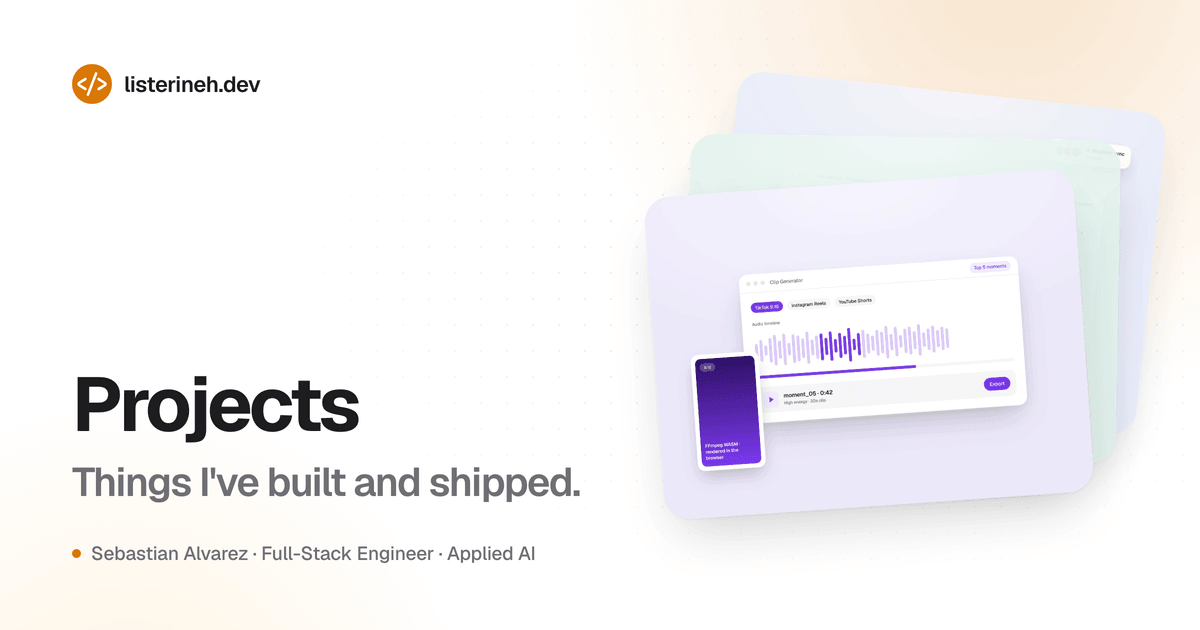
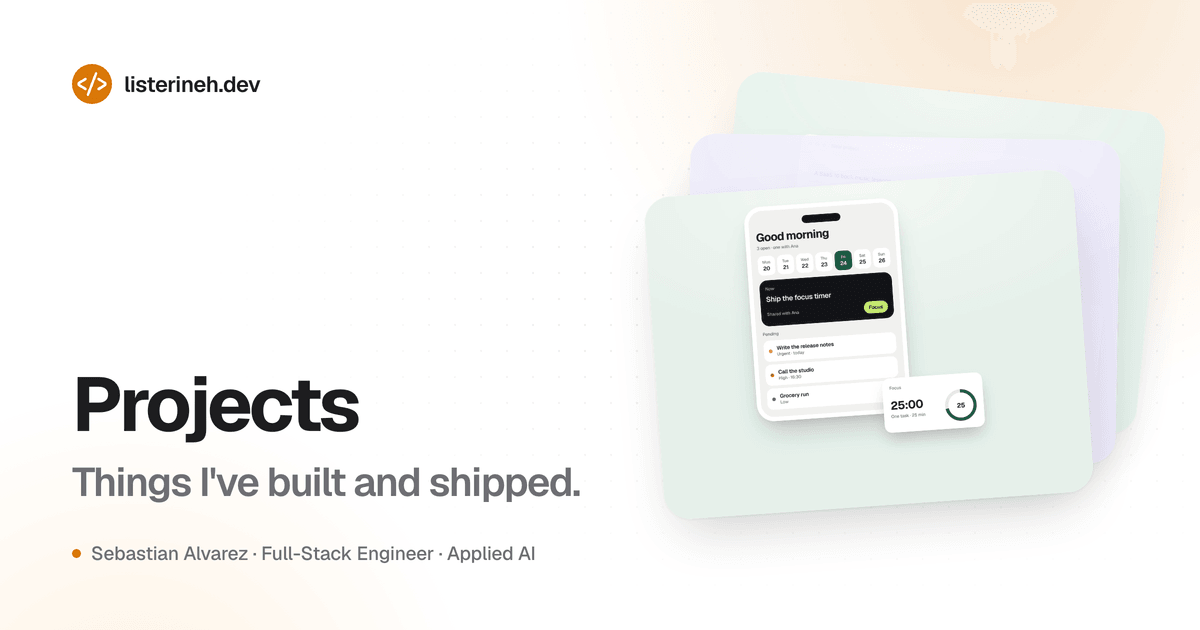
feat(projects): add Kairo to the portfolio
Kairo is the mobile app currently in development. It leads the project list in English and Spanish, with a product shot and a share image, and the home shelf grows to seven so the existing projects stay visible.

Changed region(s): [[0.555, 0.3317, 0.8633, 0.7841]]

diff --git a/scripts/generate-project-images.js b/scripts/generate-project-images.js
@@ -436,9 +436,116 @@ function htmlFlights() {
   );
 }
 
+// ─── 7. Kairo: tasks, calendar, focus ─────────────────────────────────────
+
+function htmlKairo() {
+  const days = [
+    ["Mon", "20"],
+    ["Tue", "21"],
+    ["Wed", "22"],
+    ["Thu", "23"],
+    ["Fri", "24", true],
+    ["Sat", "25"],
+    ["Sun", "26"],
+  ];
+  const week = days
+    .map(
+      ([name, n, on]) =>
+        `<div class="day ${on ? "on" : ""}"><span>${name}</span><b>${n}</b></div>`,
+    )
+    .join("");
+  const task = (title, meta, color) => `
+    <div class="task">
+      <span class="prio" style="background:${color}"></span>
+      <div style="min-width:0">
+        <div class="task-title">${title}</div>
+        <div class="label">${meta}</div>
+      </div>
+    </div>`;
+  return page(
+    { ground: "#E6F0EA", accent: "#1E5B45", accentSoft: "#E3EEE8" },
+    `
+    .scene { display: block; }
+    .phone {
+      position: absolute; left: 276px; top: 46px; width: 430px; background: #fff; border-radius: 48px; padding: 12px;
+      box-shadow: 0 1px 2px rgba(0,0,0,0.04), 0 12px 24px -8px rgba(0,0,0,0.08), 0 40px 80px -24px rgba(0,0,0,0.22);
+    }
+    .screen {
+      border-radius: 38px; background: #F1F2EF; overflow: hidden;
+      padding: 18px 18px 20px; display: flex; flex-direction: column; gap: 14px;
+    }
+    .island { width: 108px; height: 22px; border-radius: 999px; background: #121417; margin: 2px auto 2px; }
+    .hello { font-size: 32px; font-weight: 700; letter-spacing: -0.04em; line-height: 1; }
+    .week { display: grid; grid-template-columns: repeat(7, 1fr); gap: 6px; }
+    .day { height: 54px; border-radius: 14px; background: #fff; display: flex; flex-direction: column; align-items: center; justify-content: center; gap: 1px; }
+    .day span { font-size: 11px; font-weight: 500; color: var(--muted); }
+    .day b { font-size: 15px; font-weight: 600; }
+    .day.on { background: var(--accent); }
+    .day.on span, .day.on b { color: #fff; }
+    .ahora { background: #121417; color: #F3F5F2; border-radius: 22px; padding: 16px; display: grid; gap: 8px; }
+    .ahora .kicker { font-size: 12px; font-weight: 500; color: #A7AFB7; }
+    .ahora .h { font-size: 20px; font-weight: 600; letter-spacing: -0.03em; }
+    .lime { display: inline-flex; align-items: center; height: 34px; padding: 0 14px; border-radius: 999px; background: #C6E96F; color: #121417; font-size: 14px; font-weight: 600; }
+    .task { display: flex; align-items: center; gap: 12px; background: #fff; border-radius: 16px; padding: 12px 14px; }
+    .task-title { font-size: 15px; font-weight: 600; letter-spacing: -0.02em; }
+    .prio { width: 10px; height: 10px; border-radius: 50%; flex-shrink: 0; }
+    .focus { left: 628px; top: 548px; width: 280px; }
+    .ring {
+      width: 88px; height: 88px; border-radius: 50%; flex-shrink: 0;
+      background: conic-gradient(#1E5B45 0 72%, #E6E9E5 72% 100%);
+      display: grid; place-items: center;
+    }
+    .ring i {
+      width: 70px; height: 70px; border-radius: 50%; background: #fff;
+      display: grid; place-items: center; font-size: 18px; font-weight: 700;
+      letter-spacing: -0.03em; font-style: normal;
+    }
+    `,
+    `
+    <div class="phone">
+      <div class="screen">
+        <div class="island"></div>
+        <div>
+          <div class="hello">Good morning</div>
+          <div class="label" style="margin-top:6px;">3 open · one with Ana</div>
+        </div>
+        <div class="week">${week}</div>
+        <div class="ahora">
+          <div class="kicker">Now</div>
+          <div class="h">Ship the focus timer</div>
+          <div class="row" style="justify-content:space-between;margin-top:4px;">
+            <span class="kicker">Shared with Ana</span>
+            <span class="lime">Focus</span>
+          </div>
+        </div>
+        <div>
+          <div class="label" style="margin-bottom:10px;">Pending</div>
+          <div style="display:grid;gap:8px;">
+            ${task("Write the release notes", "Urgent · today", "#C8323F")}
+            ${task("Call the studio", "High · 16:30", "#A9550E")}
+            ${task("Grocery run", "Low", "#646C75")}
+          </div>
+        </div>
+      </div>
+    </div>
+    <div class="float focus">
+      <div class="label">Focus</div>
+      <div class="row" style="justify-content:space-between;align-items:center;margin-top:8px;">
+        <div>
+          <div style="font-size:32px;font-weight:700;letter-spacing:-0.04em;line-height:1;">25:00</div>
+          <div class="label" style="margin-top:6px;">One task · 25 min</div>
+        </div>
+        <div class="ring"><i>25</i></div>
+      </div>
+    </div>
+    `,
+  );
+}
+
 // ─── Runner ────────────────────────────────────────────────────────────────
 
 const ALL_PROJECTS = [
+  { id: "kairo", filename: "kairo.webp", html: htmlKairo() },
   { id: "openstage", filename: "openstage.webp", html: htmlOpenStage() },
   {
     id: "vibe-architect",

diff --git a/src/lib/data/projects.ts b/src/lib/data/projects.ts
@@ -4,6 +4,21 @@ import type { Locale } from '@/i18n/config';
 export const projectsData: Record<Locale, Project[]> = {
   en: [
     {
+      id: 'kairo',
+      slug: 'kairo',
+      title: 'Kairo',
+      description: 'Open-source tasks for iOS and Android. Shared calendars, realtime sync with friends, and focus tools for ADHD.',
+      longDescription: "Kairo is a collaborative task app for iPhone and Android. The name comes from the Greek kairos, the right moment. It keeps tasks, shows the day on a calendar, and stays in sync with friends, in language that does not scold you for falling behind.\n\nA task has a title, a description, a priority, and an optional start and end. Swipe to complete or delete, and the streak only counts the day you actually finished. The calendar shows day, week, and month, including a friend's public tasks or a Busy block when their calendar is private. Focus mode is a 25-minute timer on one task, with a short break after, and a reminder can nudge you to start in 10, 15, 30, or 60 minutes. A calico cat, also named Kairo, reflects how the day is going. The app is in English and Spanish.\n\nI started it in August 2026 because I wanted a task app that matched how my attention works, and that I could change myself. It is Flutter, with Supabase for Postgres, auth, and realtime, and Firebase Cloud Messaging for push. Each feature follows Clean Architecture and BLoC. Tasks work offline: the list opens from a copy on the device, and edits wait in order until the connection comes back. It is MIT-licensed and still in active development.",
+      imageUrl: '/projects/kairo.webp',
+      imageAiHint: 'Kairo phone with a task list and a focus timer',
+      sourceCodeUrl: 'https://github.com/listerineh/kairo-tasks',
+      tags: ['Flutter', 'Dart', 'BLoC', 'Supabase', 'PostgreSQL', 'Firebase'],
+      role: 'Full Stack Developer',
+      status: 'in-progress',
+      relevance: 'A mobile app past the prototype: Flutter, Clean Architecture, realtime collaboration, and offline sync designed around ADHD.',
+      startDate: '2026-08',
+    },
+    {
       id: 'openstage',
       slug: 'openstage',
       title: 'OpenStage',
@@ -101,6 +116,21 @@ export const projectsData: Record<Locale, Project[]> = {
     },
   ],
   es: [
+    {
+      id: 'kairo',
+      slug: 'kairo',
+      title: 'Kairo',
+      description: 'App de tareas open source para iOS y Android. Calendarios compartidos, sincronización en tiempo real con amigos y herramientas de foco pensadas para el TDAH.',
+      longDescription: "Kairo es una app de tareas colaborativa para iPhone y Android. El nombre viene del griego kairos, el momento oportuno. Sirve para llevar tareas, ver el día en un calendario y mantenerse al día con amigos, con un lenguaje que no te regaña por quedarte atrás.\n\nCada tarea tiene título, descripción, prioridad y una hora de inicio y de fin opcionales. Un swipe la completa o la borra, y la racha solo cuenta el día en que de verdad la terminaste. El calendario muestra el día, la semana y el mes, incluidas las tareas públicas de un amigo o un bloque de Ocupado si su calendario es privado. El modo foco es un temporizador de 25 minutos sobre una sola tarea, con un descanso corto después, y un recordatorio puede avisarte para empezar en 10, 15, 30 o 60 minutos. Un gato tricolor, que también se llama Kairo, refleja cómo va el día. La app está en inglés y en español.\n\nLa empecé en agosto de 2026 porque quería una app de tareas que coincidiera con cómo funciona mi atención, y que yo mismo pudiera cambiar. Está hecha en Flutter, con Supabase para Postgres, autenticación y tiempo real, y Firebase Cloud Messaging para las notificaciones. Cada funcionalidad sigue Clean Architecture y BLoC. Las tareas funcionan sin conexión: la lista se abre desde una copia en el dispositivo y los cambios esperan en orden hasta que vuelve la red. Tiene licencia MIT y sigue en desarrollo.",
+      imageUrl: '/projects/kairo.webp',
+      imageAiHint: 'Kairo en un teléfono, con la lista de tareas y el temporizador de foco',
+      sourceCodeUrl: 'https://github.com/listerineh/kairo-tasks',
+      tags: ['Flutter', 'Dart', 'BLoC', 'Supabase', 'PostgreSQL', 'Firebase'],
+      role: 'Desarrollador Full Stack',
+      status: 'in-progress',
+      relevance: 'Una app móvil más allá del prototipo: Flutter, Clean Architecture, colaboración en tiempo real y sincronización offline pensada para el TDAH.',
+      startDate: '2026-08',
+    },
     {
       id: 'openstage',
       slug: 'openstage',

diff --git a/src/lib/data/home.ts b/src/lib/data/home.ts
@@ -12,7 +12,7 @@ export function getHomeData(): { byLocale: Record<Locale, HomeLocaleData>; skill
   for (const locale of locales) {
     byLocale[locale] = {
       projects: getProjects(locale)
-        .slice(0, 6)
+        .slice(0, 7)
         .map(({ longDescription: _long, relevance: _relevance, ...project }): ProjectSummary => project),
       posts: getBlogPosts(locale).slice(0, 4).map(toBlogSummary),
       experiences: getExperiences(locale), // every role: the home page is the only place they live

diff --git a/src/lib/stack-layers.ts b/src/lib/stack-layers.ts
@@ -15,6 +15,8 @@ const TAG_LAYER: Record<string, StackLayer> = {
   pwa: 'interface',
   i18n: 'interface',
   'ffmpeg wasm': 'interface',
+  flutter: 'interface',
+  bloc: 'interface',
   'gemini ai': 'ai',
   whisper: 'ai',
   mcp: 'ai',
@@ -30,6 +32,7 @@ const TAG_LAYER: Record<string, StackLayer> = {
   aws: 'infra',
   terraform: 'infra',
   typescript: 'tooling',
+  dart: 'tooling',
 };
 
 export function stackLayers(tags: readonly string[]): { layer: StackLayer; items: string[] }[] {

diff --git a/tests/pages/pages.spec.ts b/tests/pages/pages.spec.ts
@@ -20,6 +20,11 @@ const pages: {
     title: { en: /^Projects ·/, es: /^Proyectos ·/ },
   },
   {
+    path: "/projects/kairo",
+    h1: { en: /Kairo/, es: /Kairo/ },
+    title: { en: /^Kairo ·/, es: /^Kairo ·/ },
+  },
+  {
     path: "/projects/openstage",
     h1: { en: /OpenStage/, es: /OpenStage/ },
     title: { en: /^OpenStage ·/, es: /^OpenStage ·/ },

diff --git a/tests/pages/csp.spec.ts b/tests/pages/csp.spec.ts
@@ -70,6 +70,7 @@ test.describe("Content Security Policy", () => {
     "/",
     "/about",
     "/projects",
+    "/projects/kairo",
     "/projects/openstage",
     "/skills",
     "/blog",

diff --git a/CHANGELOG.md b/CHANGELOG.md
@@ -4,6 +4,9 @@ Versions are git tags (`vX.Y.Z`) on `main`. Earlier releases (`v2.1.0`, `v2.0.0`
 
 ## [Unreleased]
 
+### Added
+- Kairo, the open-source iOS and Android task app, in the projects list (English and Spanish), with a product shot and a share image.
+
 ## [3.1.0] - 2026-10-20
 
 ### Changed
